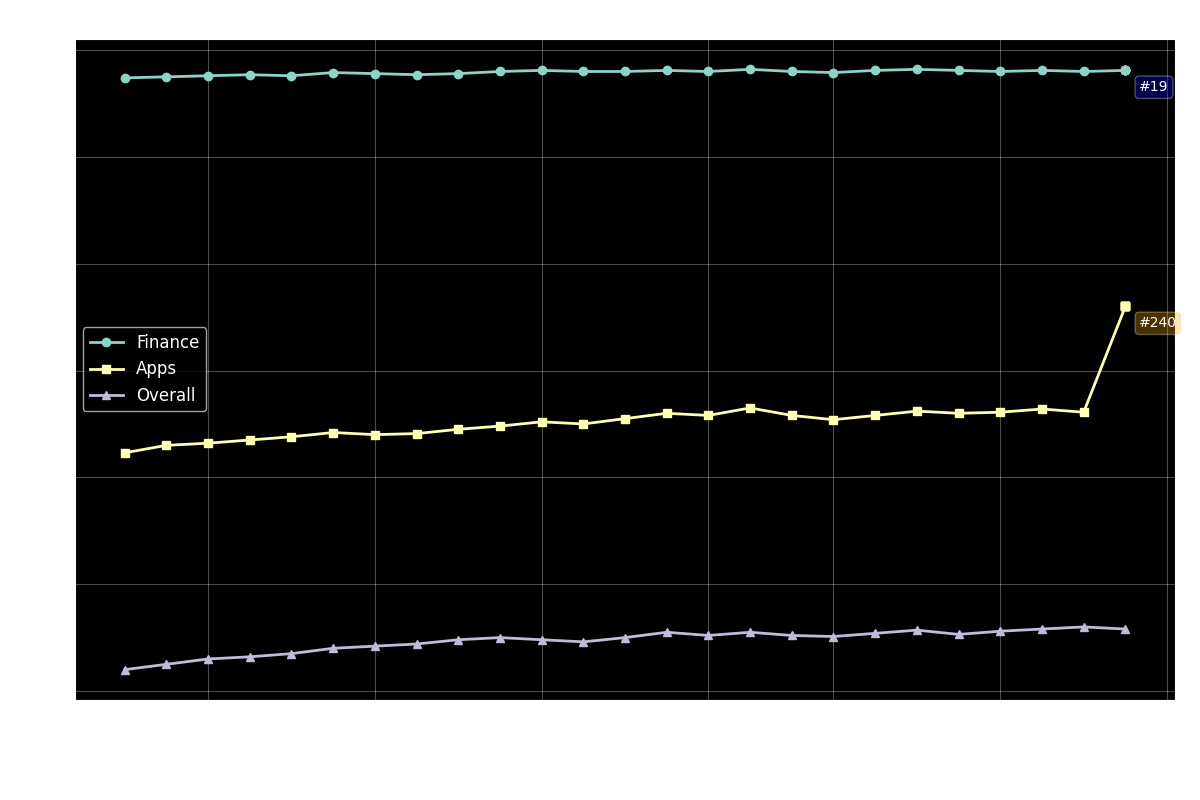
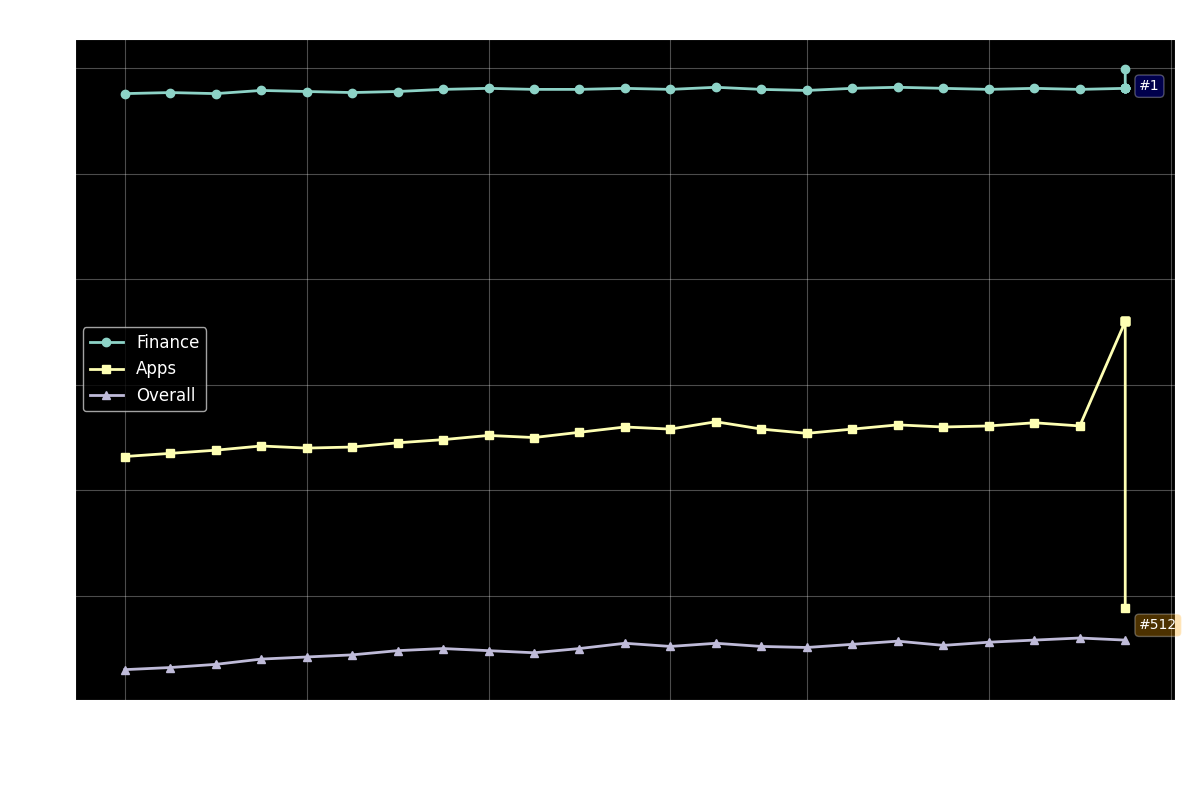
Update app ranking data to reflect corrected source data.  Fixed data discrepancies and removed data validation step for Twitter data.
Replit-Commit-Author: Agent
Replit-Commit-Session-Id: b544cc7f-ea2b-41dc-8cda-df1743bdd76c
Replit-Commit-Screenshot-Url: https://storage.googleapis.com/screenshot-production-us-central1/89570994-1faf-4430-9046-75d67078f252/f6603813-0794-4b0d-bd53-f7502c6fa40b.jpg

diff --git a/scraper.py b/scraper.py
@@ -1093,8 +1093,7 @@ class SensorTowerScraper:
             
             if rankings_data and rankings_data["categories"]:
                 logger.info(f"Successfully scraped {len(rankings_data['categories'])} categories from Twitter")
-                # Validate and correct the rankings data
-                rankings_data = self.validate_and_correct_rankings(rankings_data)
+                # Don't validate Twitter data - use as is
                 return rankings_data
             else:
                 logger.error("Failed to scrape any data from Twitter")
